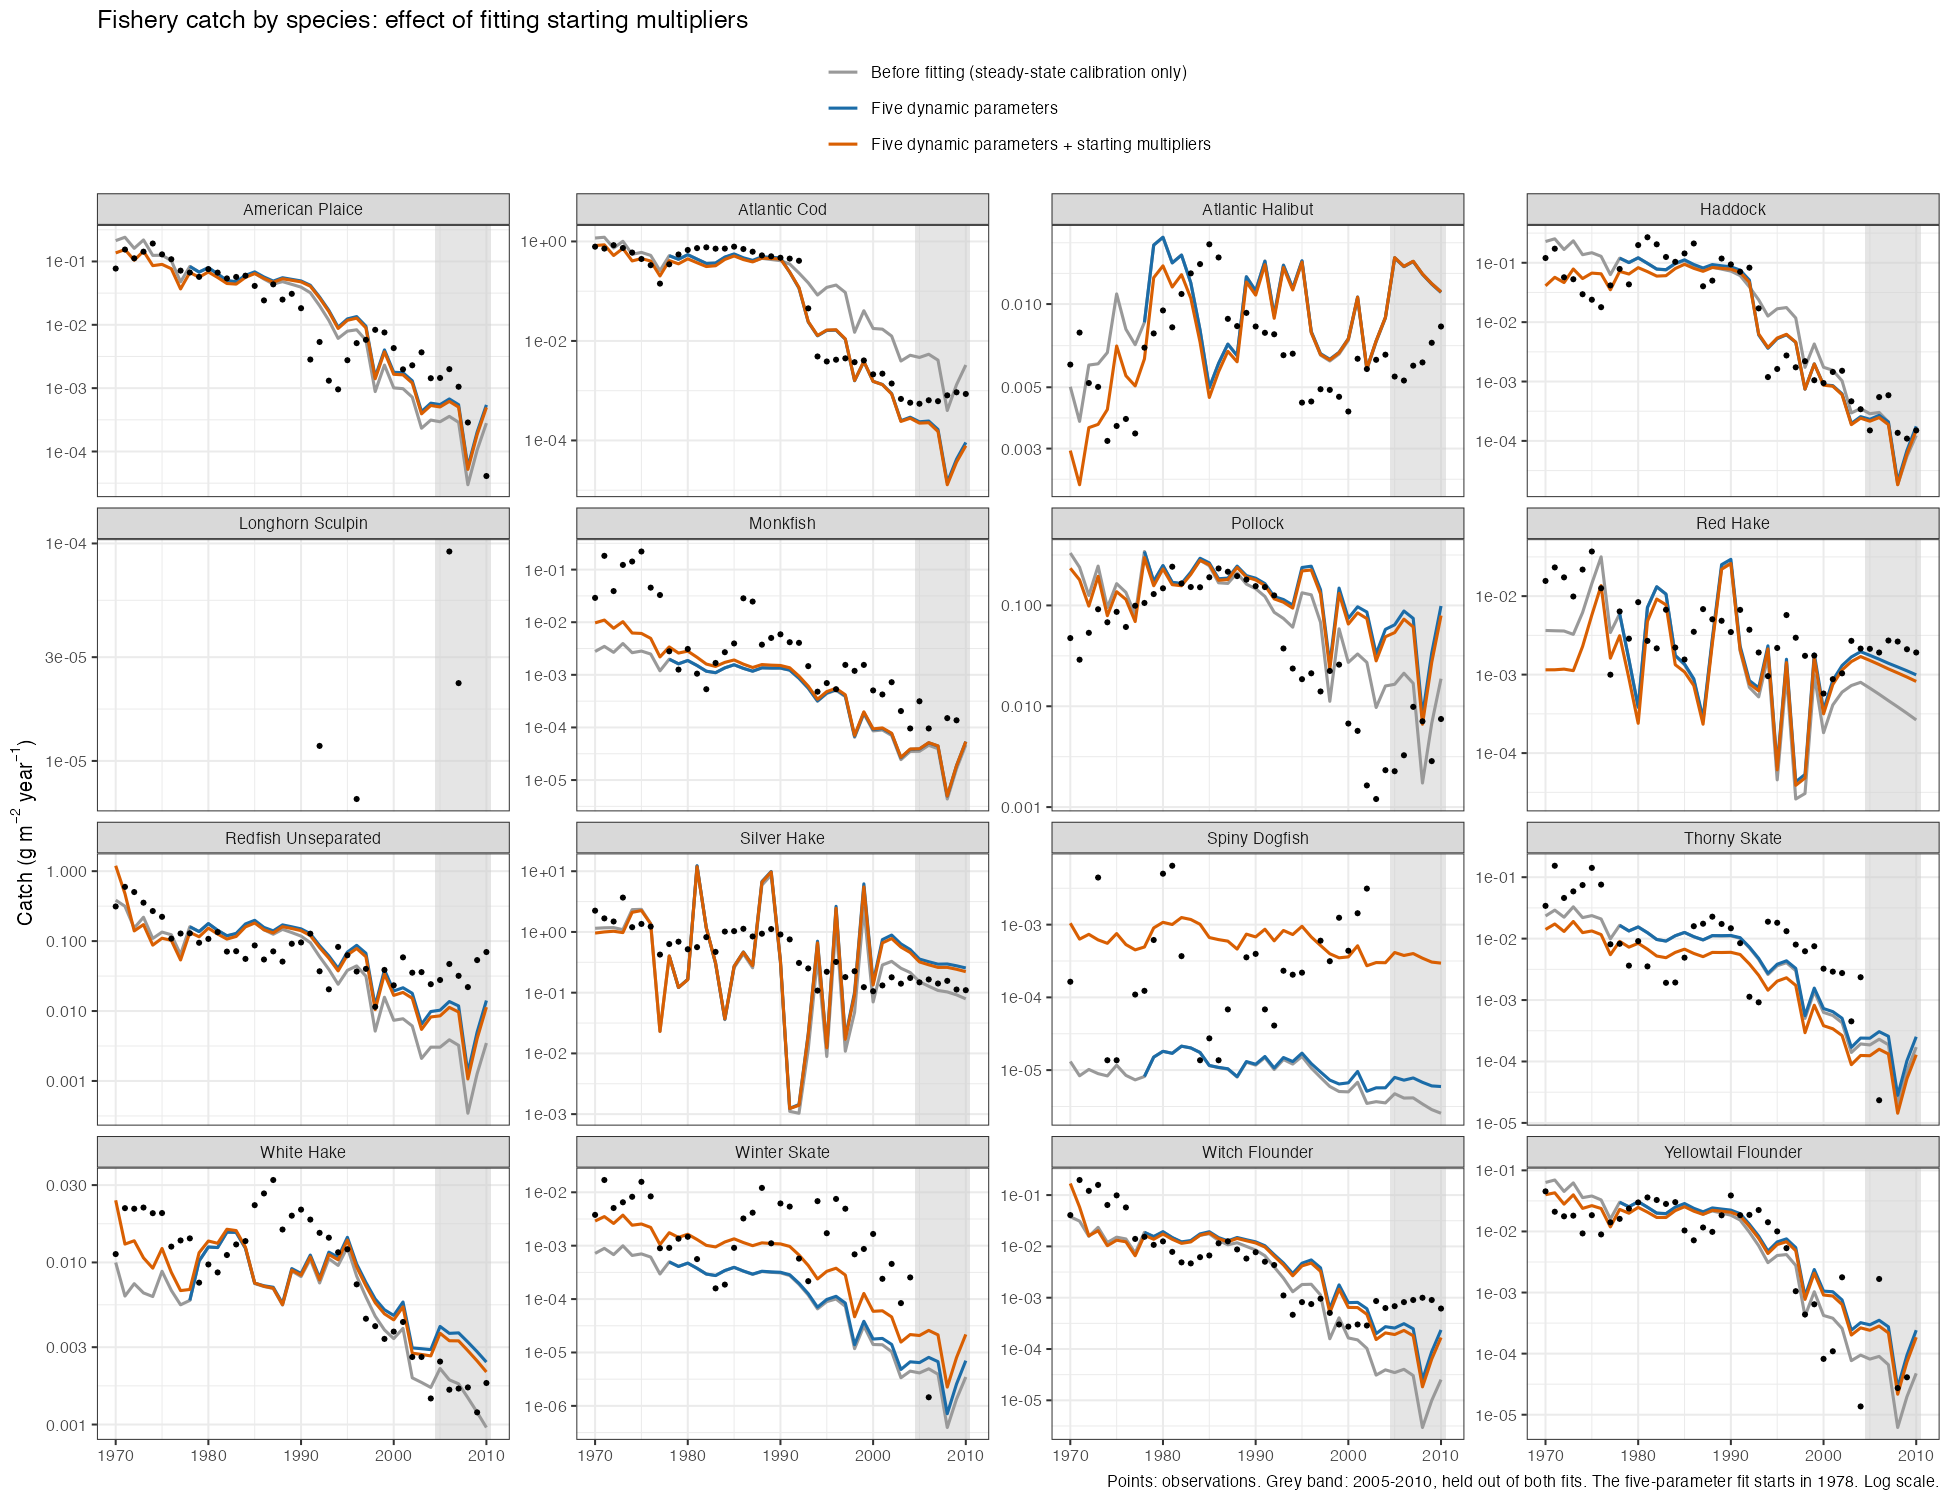
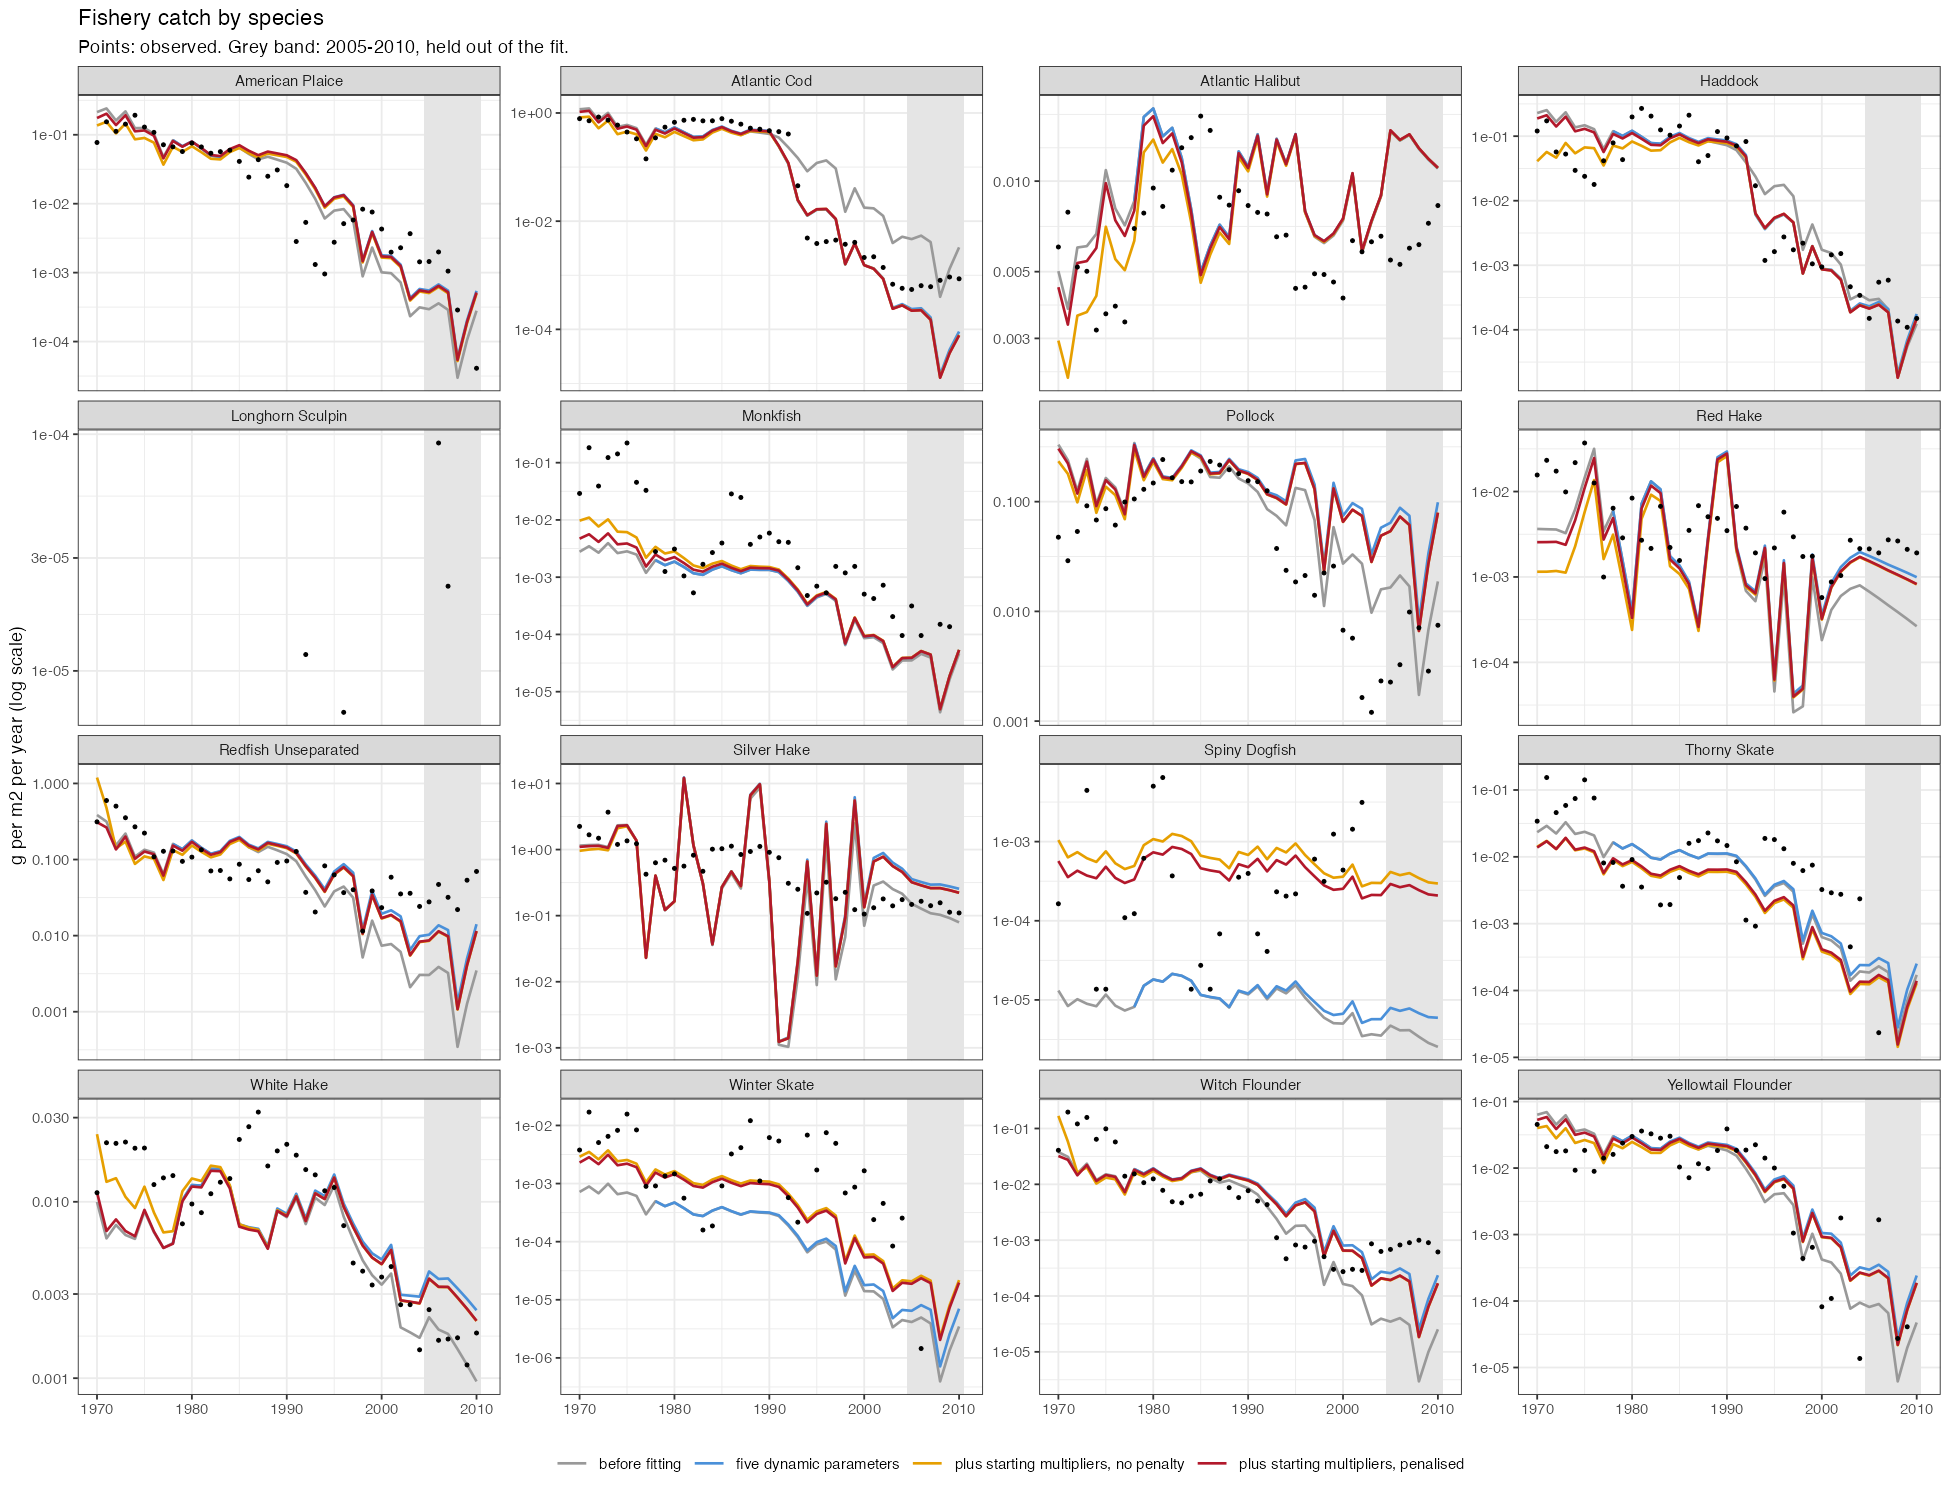
Penalise the starting multipliers in script 10
Each starting multiplier now has to pay for itself, so the unsupported
ones settle at 1 without any species being chosen by hand. The handover
records the fits at three penalty weights and the finding that four
species have no recruitment limit.

diff --git a/HANDOVER_2026-11-26.md b/HANDOVER_2026-11-26.md
@@ -1647,6 +1647,78 @@ package versions in `renv.lock`. It has not been tested on another machine or
 with a different number of cores.
 
 
+## 25. A penalty on the starting multipliers
+
+Section 24 left script 10 fitting 16 starting multipliers with nothing to stop
+the unsupported ones running to extremes (redfish x158, witch flounder x524,
+haddock x0.013). Rather than hand-pick which species get a multiplier, the
+objective now includes a penalty that every multiplier has to pay for:
+
+    mismatch + start_penalty_weight * mean(log10(multiplier)^2)
+
+With 16 species, a tenfold change in one species' start adds
+`start_penalty_weight / 16` to the objective. All species are treated the same
+and none is chosen by hand. The weight is set near the top of script 10
+(default 0.1) and can be overridden with the `START_PENALTY_WEIGHT`
+environment variable. All mismatches the script reports are the data mismatch
+alone, so they compare across weights.
+
+Fitted at three weights (three starting points each; all agree):
+
+| | no penalty | weight 0.01 | weight 0.1 (default) |
+|---|---|---|---|
+| Data mismatch 1970-2004 | 0.328 | 0.330 | 0.338 |
+| Spiny Dogfish | x89 | x108 | x49 |
+| Winter Skate | x4.3 | x4.8 | x3.4 |
+| Monkfish | x5.4 | x5.5 | x2.3 |
+| Longhorn Sculpin | x2.7 | x4.2 | x1.4 |
+| White Hake | x7.2 | x5.4 | x1.6 |
+| Thorny Skate | x0.63 | x0.69 | x0.61 |
+| Redfish | x158 | x1.15 | x1.03 |
+| Witch Flounder | x524 | x1.05 | x1.01 |
+| Haddock | x0.013 | x0.33 | x0.87 |
+| Seal rise multiplier | 0.55 | 0.55 | 0.55 |
+| Extra cod mortality | 0.62 | 0.62 | 0.63 |
+| Cod trawl factor from 1993 | 0.39 | 0.39 | 0.39 |
+| Haddock trawl factor from 1993 | 0.21 | 0.21 | 0.21 |
+
+What this shows:
+
+- Even the weak penalty removes the two absurd values (redfish, witch
+  flounder) at a cost of 0.002 in mismatch. They were never supported.
+- Dogfish, winter skate and monkfish keep a multiplier well above 1 at every
+  weight. Those are the ones the data ask for. Their size depends on the
+  weight, so read them as "several times" and "tens of times", not as
+  estimates to two figures.
+- The five dynamic parameters do not move at all.
+- Skill against data is unchanged from section 24 (biomass 1970-2004: 11 of 16
+  species within 2x; held-out 2005-2010 biomass at x0.60 of observed). The
+  penalty tidies the multipliers; it does not improve the fit.
+
+`Ess_Fishmip_data/fitted_dynamic_parameters.csv` now holds the weight 0.1 fit.
+The weight 0.01 fit was run in a scratch copy and is recorded only in the
+table above.
+
+### Four species have no recruitment limit
+
+Found while running the fitted model with fishing switched off: spiny dogfish,
+thorny skate, winter skate and longhorn sculpin have `R_max = Inf`
+(reproduction level 0) in `params_GFDL_steady.RDS`, inherited from Stage 1.
+Every other species has a reproduction level between 0.47 and 1.00. With no
+limit, dogfish grows without bound as soon as fishing and seal mortality are
+removed (about fivefold every 30 years), and then removes the rest of the
+community. This is also the likely reason dogfish drifts so far in the fished
+spin-up and needs the largest starting multiplier.
+
+Not fixed yet. The fix belongs in script 06 (give these four a finite `R_max`
+through their reproduction level), followed by rerunning 07 and the fit in 10.
+Until then, no run of this model without fishing can be trusted.
+
+The no-fishing and other counterfactual runs, and the forcing extension to
+2100 they use, are kept outside this repository on purpose; they belong to a
+different paper.
+
+
 ## Commits on `julia`
 
 ```
